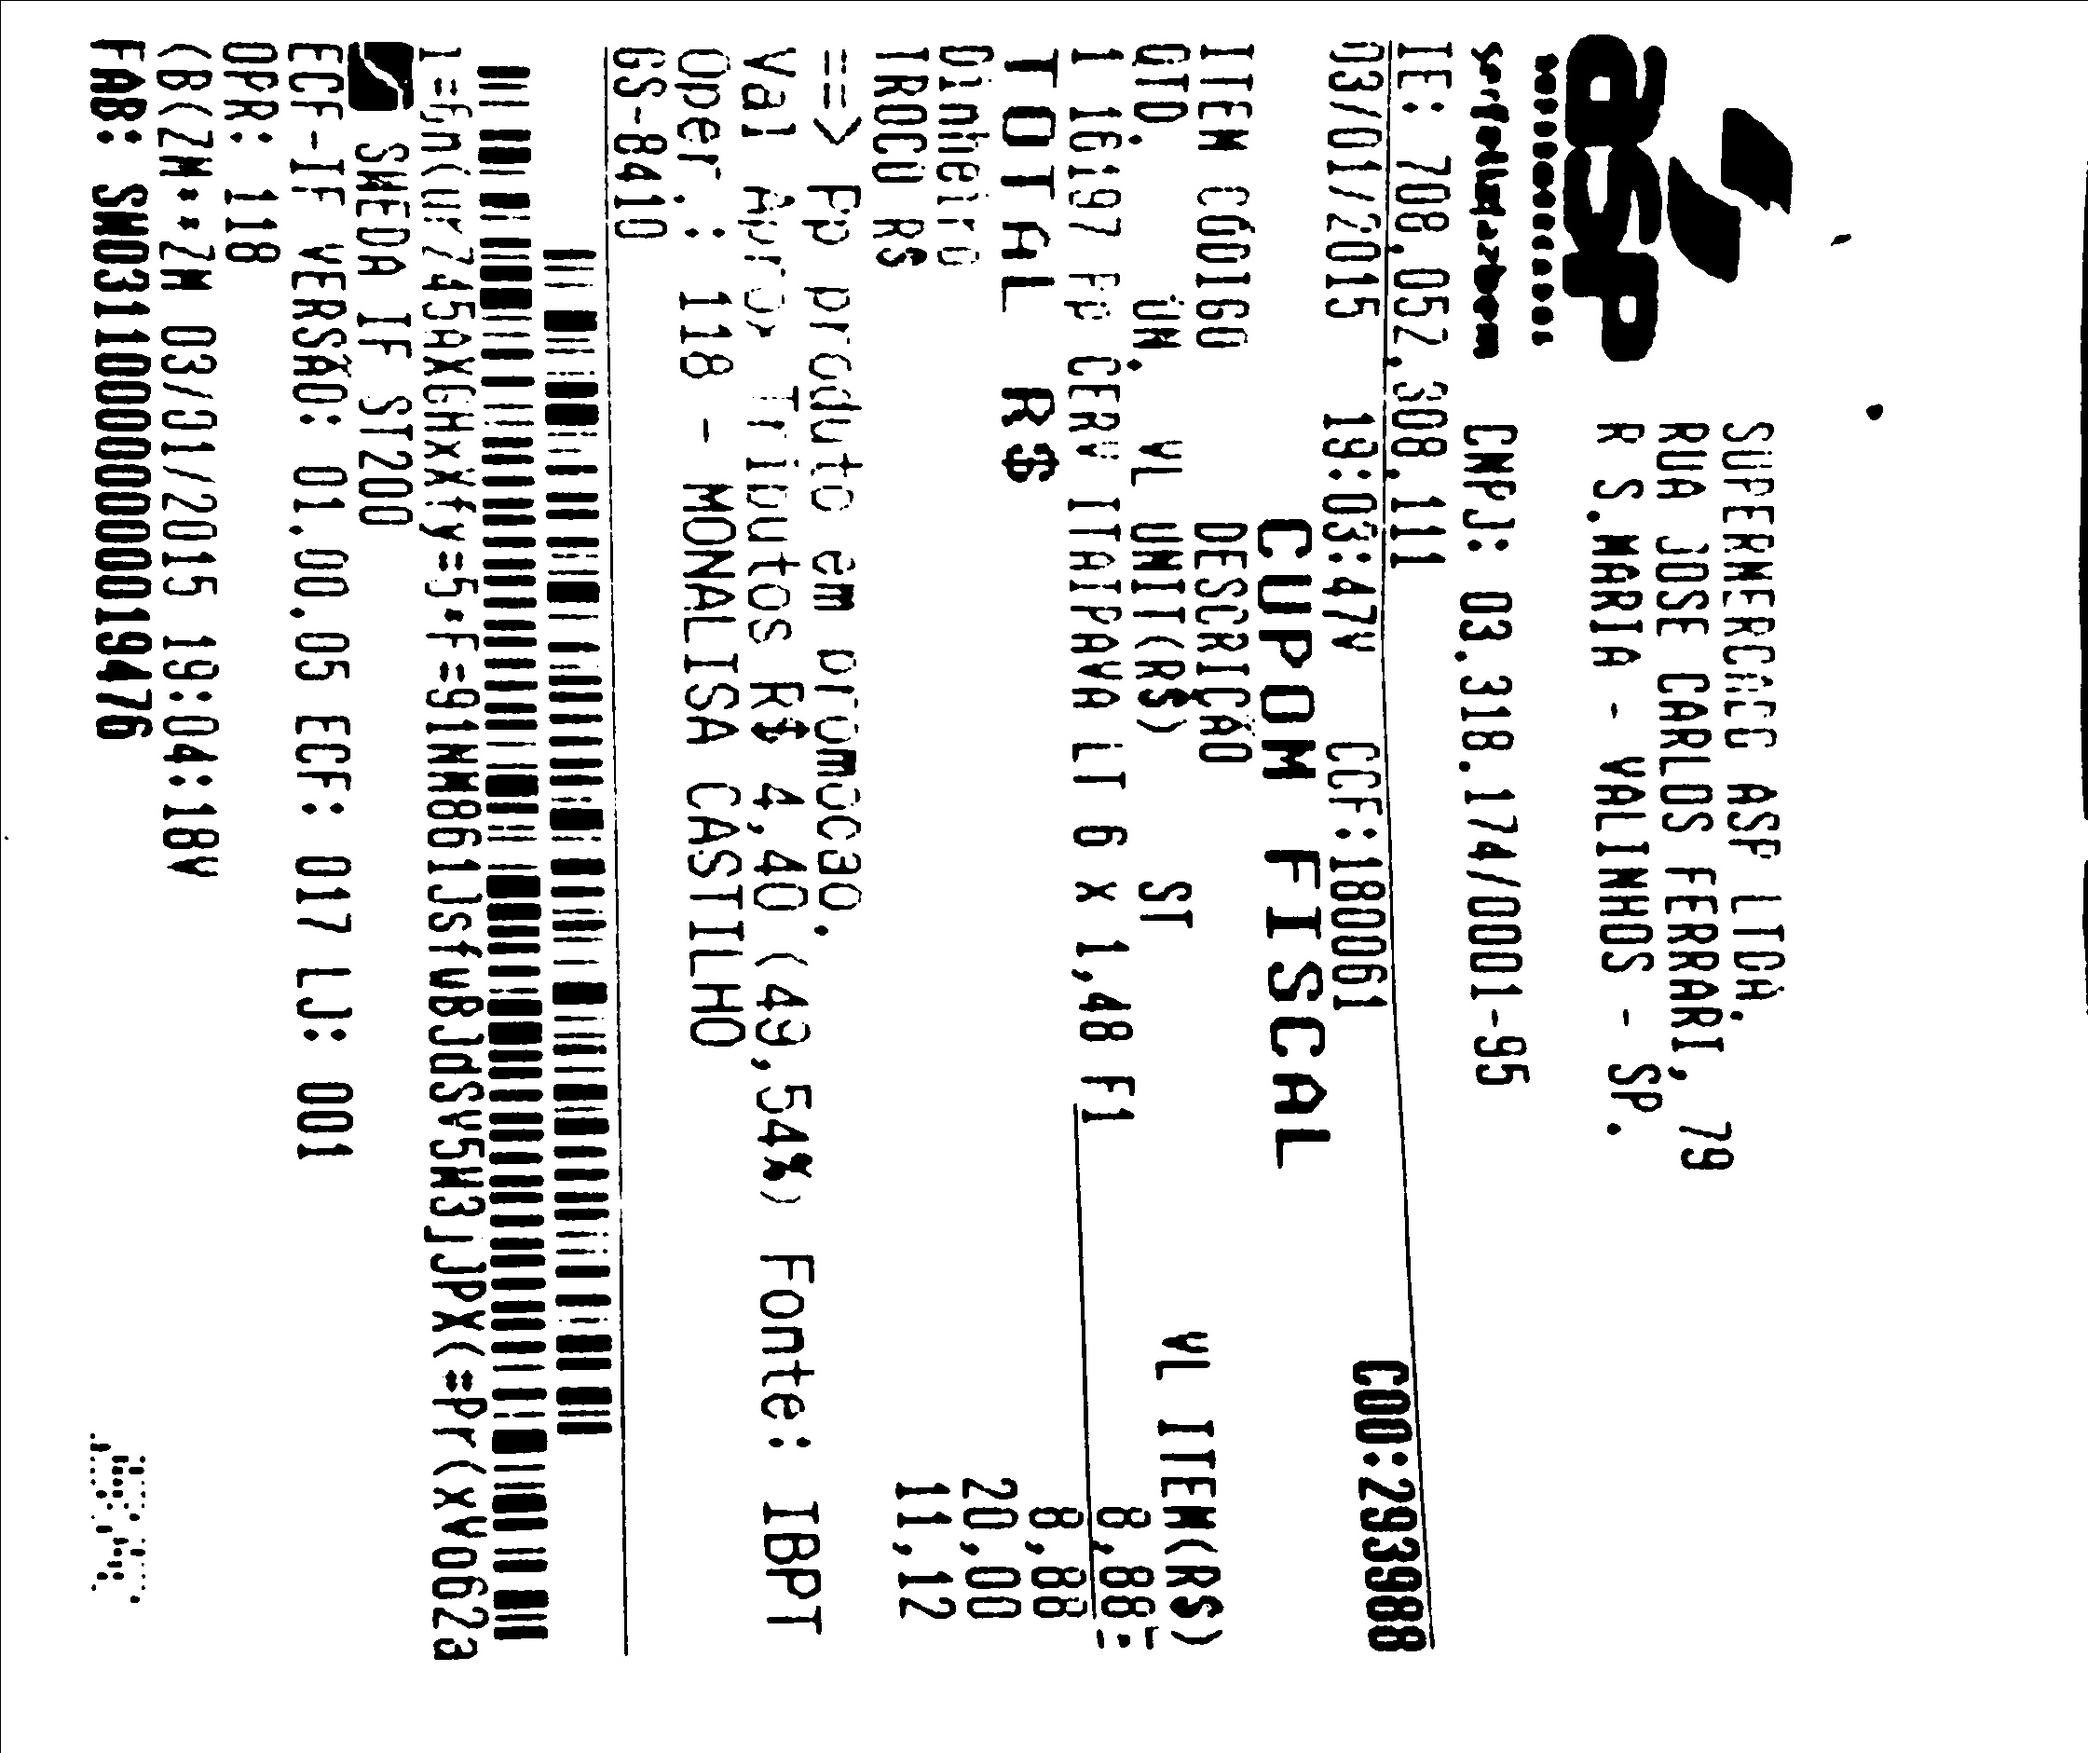
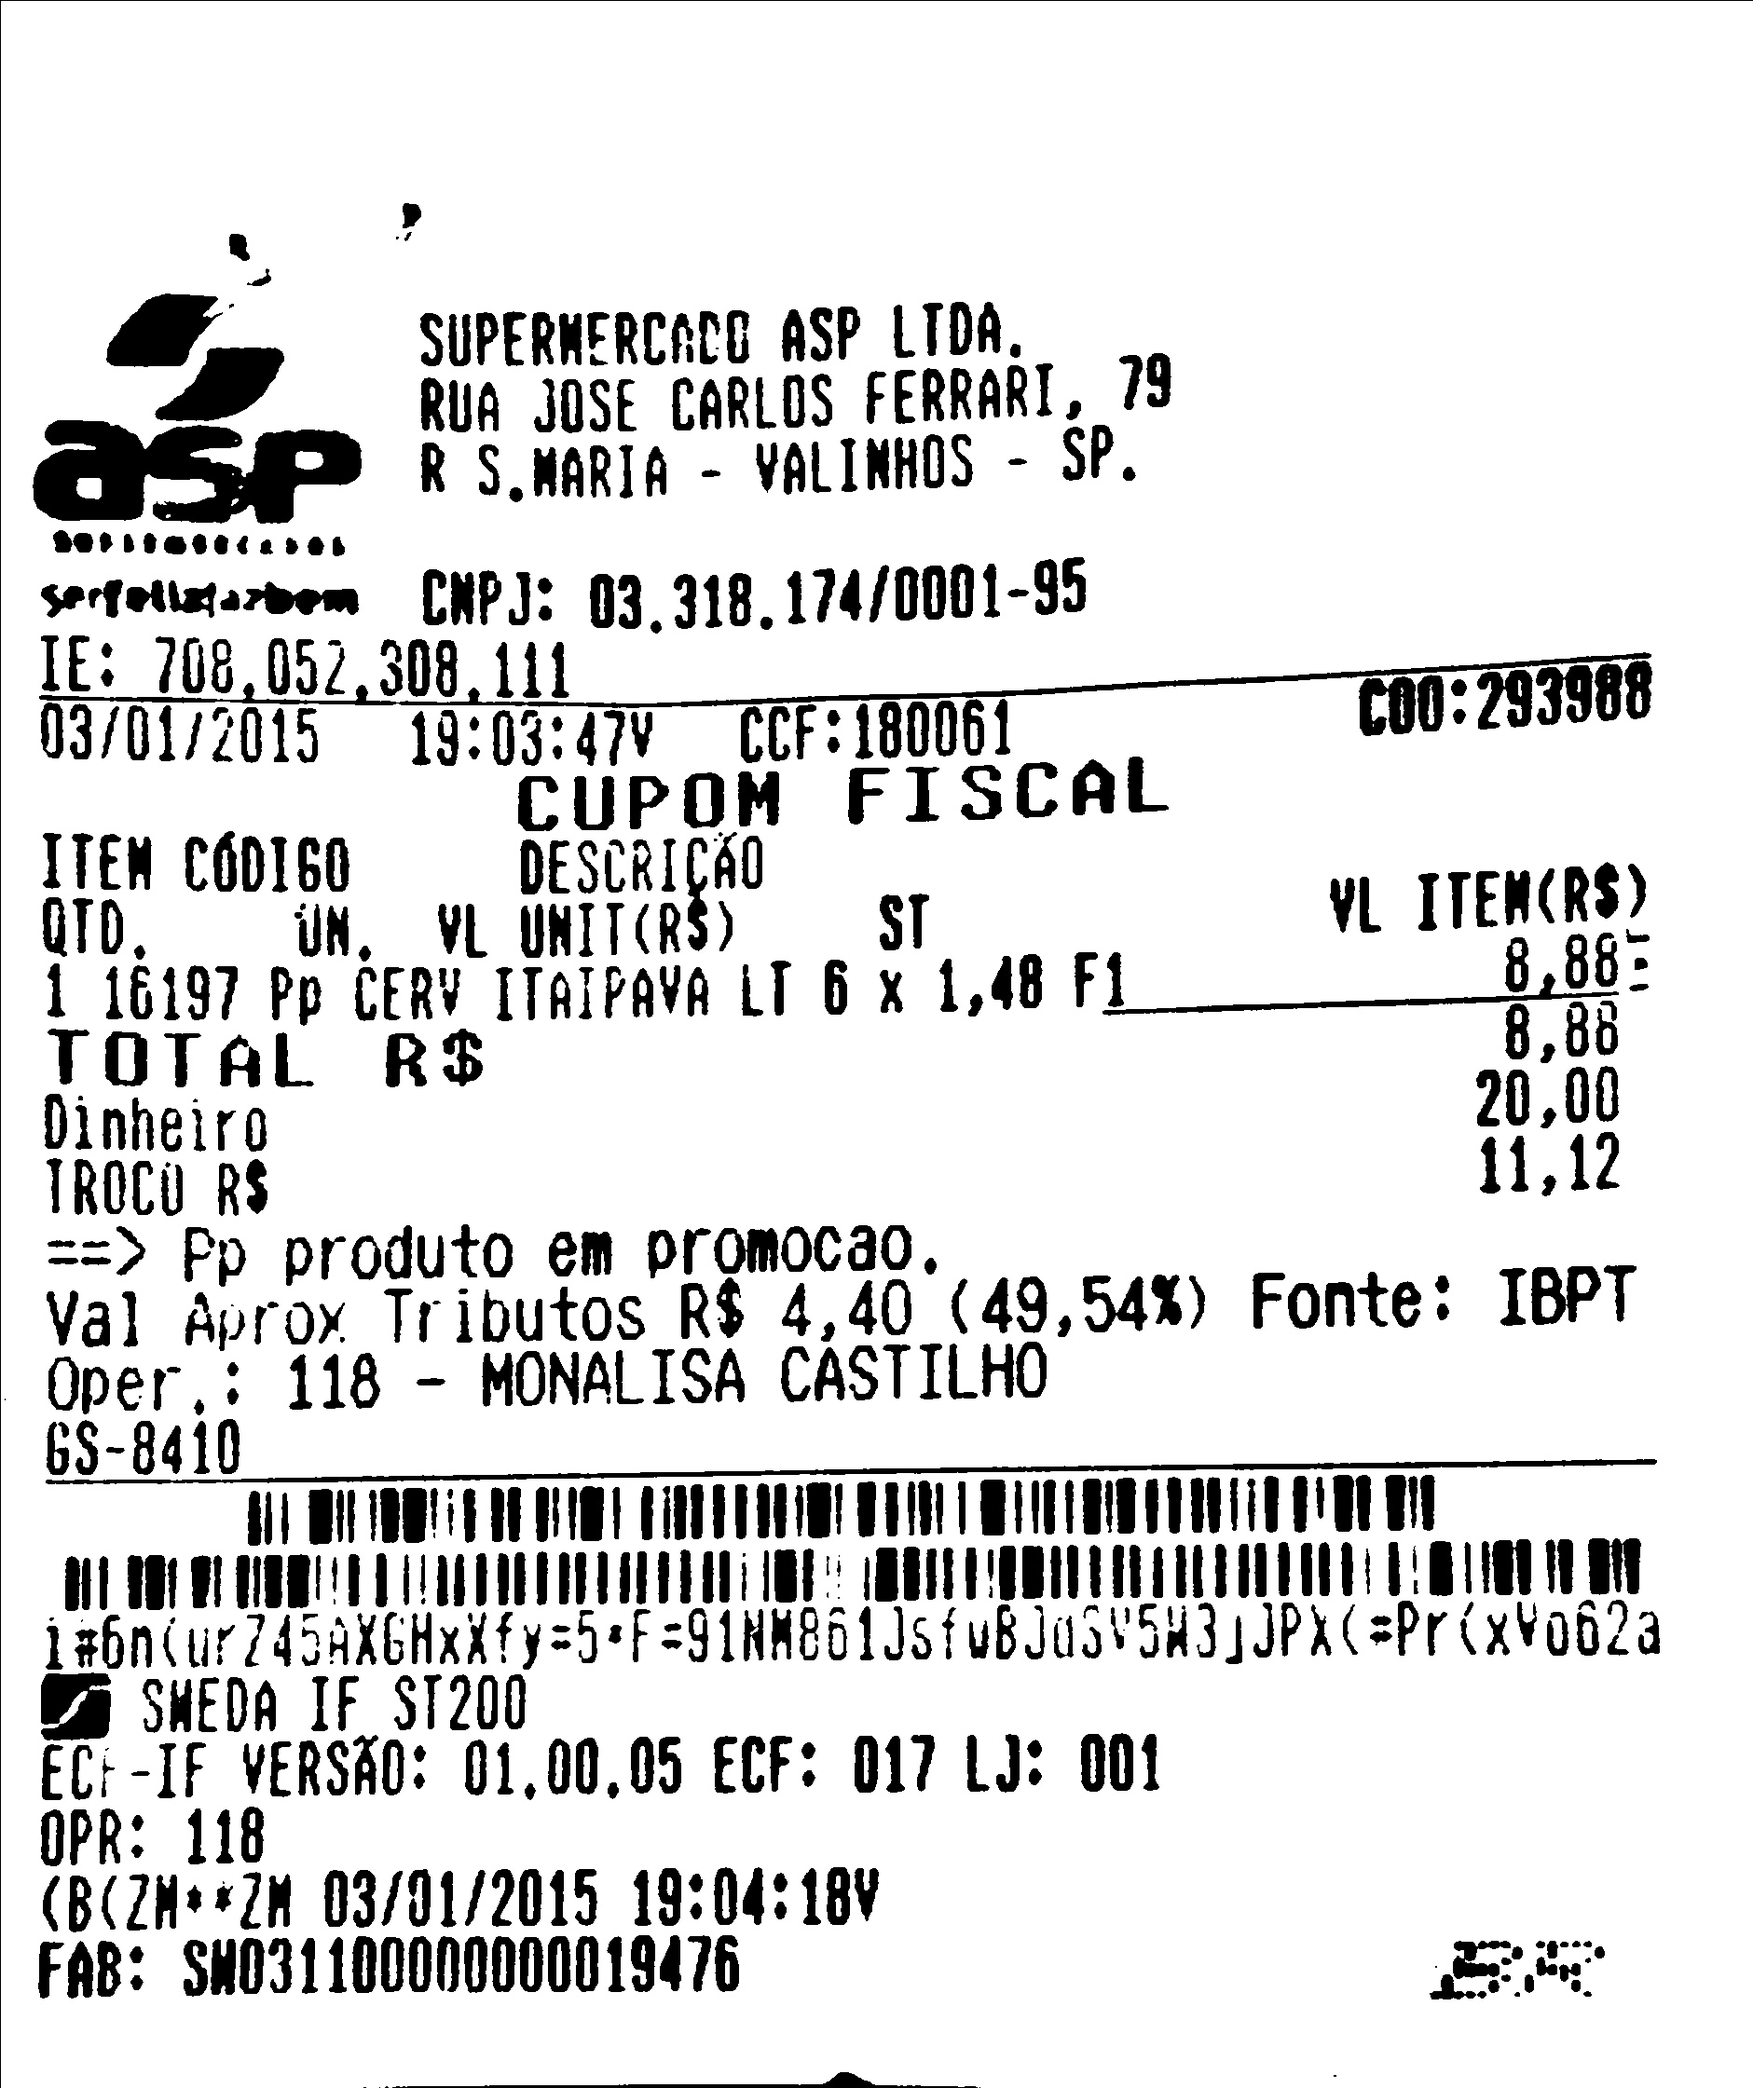
checked some parameters

diff --git a/process.py b/process.py
@@ -34,7 +34,7 @@ image = sFunc.open(output)
 
 grey = sFunc.greyscale(image)
 blurred = sFunc.blur(grey)
-binary = sFunc.binarize(blurred, 500)
+binary = sFunc.binarize(blurred, 75)
 
 # save it
 sFunc.save(output, binary)
